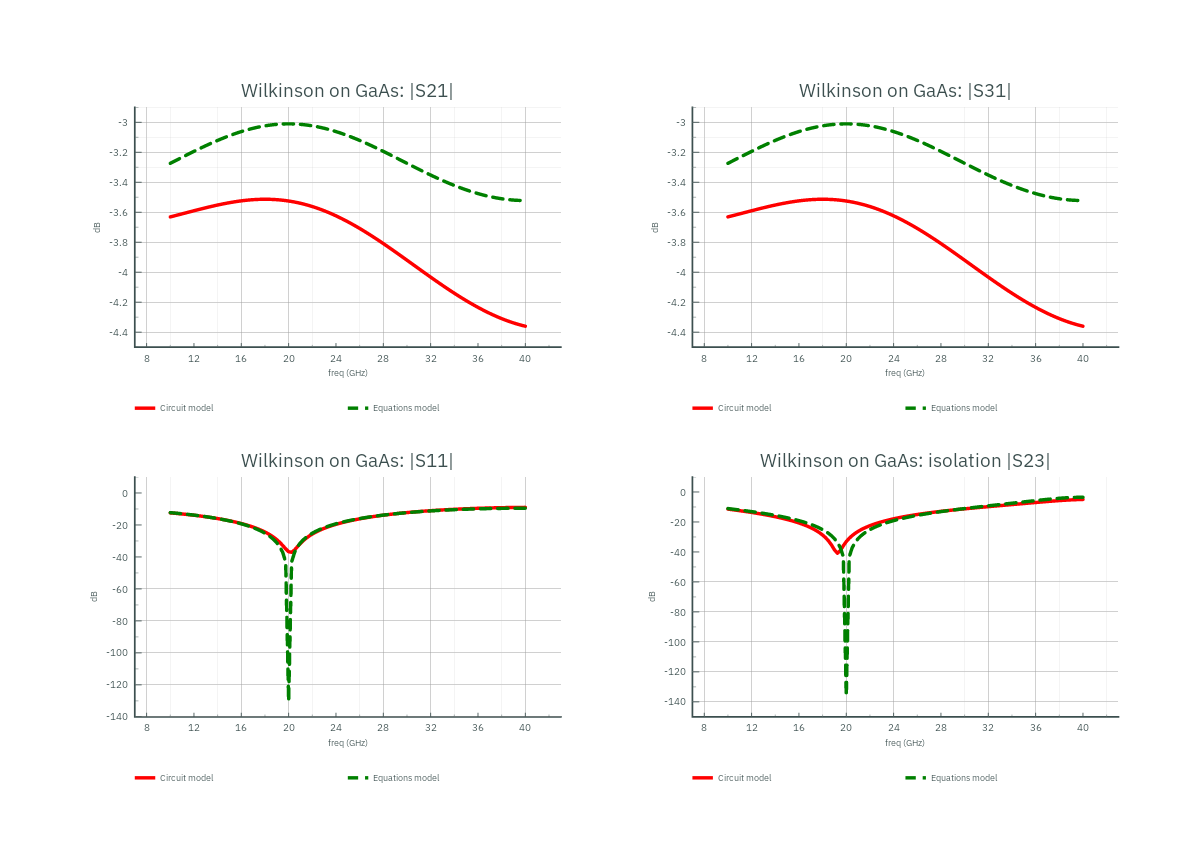
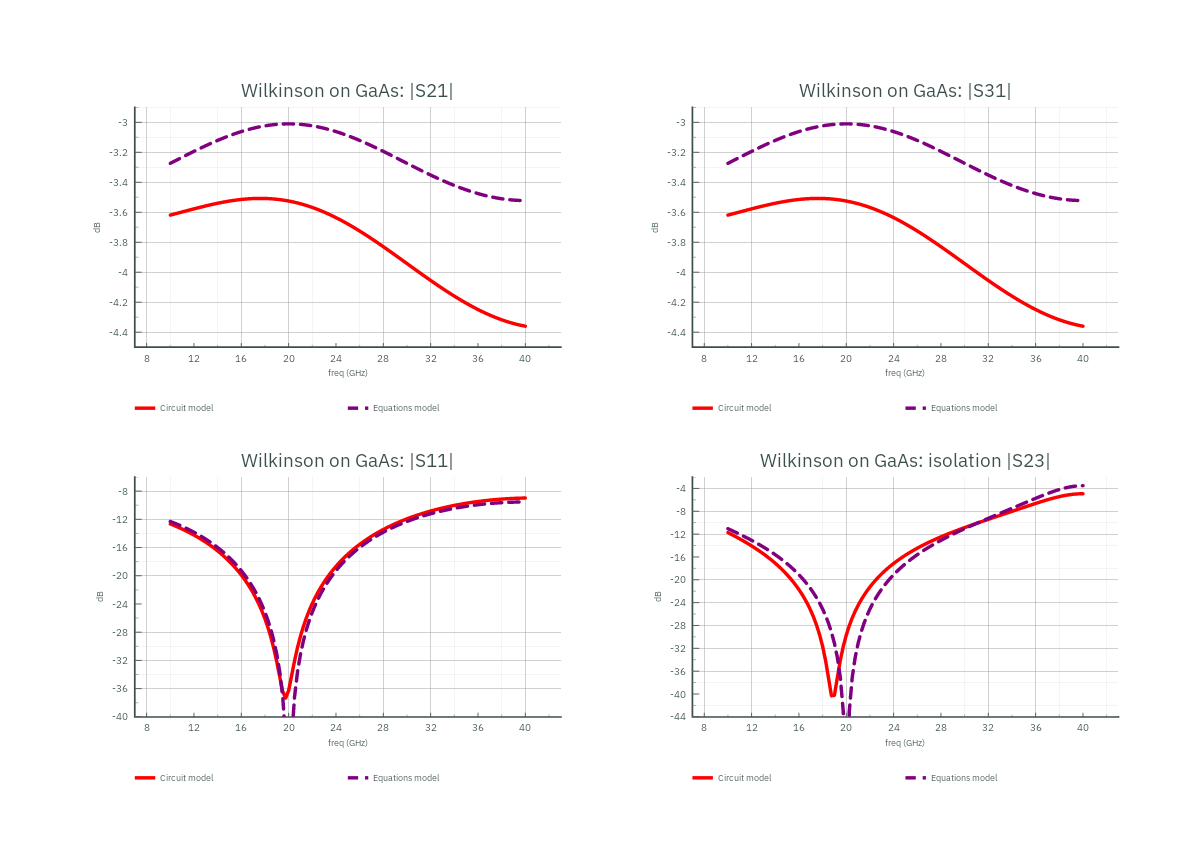
MMIC Wilkinson and RFIC Branch-Line: the examples page entries back, and the thin-film loss said
The examples page lost both workspaces' entries and the Dividers and Couplers abstract's newer text in
the merge with main; they are back, under Planar EM and Boards where examples.json now groups them,
and the abstract says every cell has an equations model and the tandem has 0 ohm jumpers. The RFIC
README says the 9 dB is the thin-film microstrip's conductor loss on 1.8 um of oxide at 60 GHz, not
a fault of the model. Both data displays draw the equations model as the board ones now do.

diff --git a/docs/user/src/examples/index.md b/docs/user/src/examples/index.md
@@ -176,9 +176,21 @@ A 50 to 100 Ω Klopfenstein taper, 15 mm long, solved two ways for one S11 plot.
 
 ### [Dividers and Couplers](dividers-and-couplers/index.html) {#ex-dividers-and-couplers}
 
-The RF dividers, hybrids, couplers and baluns as built-in parts, each stated by its specs and drawn from the same plan its circuit model simulates, on 20 mil RO4350B at 2.4 GHz. The Wilkinson divider (MWPD) takes Z0, F and the resistor's pin span, with the widths and lengths shown as a readout; `K` makes it an unequal split and `N` a two-section broadband divider, and a four-way tree is three of them. The branch-line (MBLC) and rat-race (MRRC) hybrids, the 10 dB coupled-line coupler (MCLC) and the coupled-line balun (MCBL) are built the same way, each laid out by Update Layout from Schematic. Every EM cell has a Planar MoM setup (the balun's is refused) and a 3D view with EMerge and Palace setups, and a test bench beside it: the cell's circuit plus one SnP block per solver, each reading the Touchstone file its own run writes, with a lumped part's component port closed by that part. No results ship. Run the setups, simulate the bench, and open the cell's data display: the circuit model is drawn as a line and each solver as markers at the eleven frequencies it solved. The README tables each part at 2.4 GHz and keeps the open points, such as the 3D solvers reading the coupler's coupling about 1 dB strong and microstrip's unequal mode speeds holding the balun's outputs about 170° apart.
+The RF dividers, hybrids, couplers and baluns as built-in parts, each stated by its specs and drawn from the same plan its circuit model simulates, on 20 mil RO4350B at 2.4 GHz. The Wilkinson divider (MWPD) takes Z0, F and the resistor's pin span, with the widths and lengths shown as a readout; `K` makes it an unequal split and `N` a two-section broadband divider, and a four-way tree is three of them. The branch-line (MBLC) and rat-race (MRRC) hybrids, the 10 dB coupled-line coupler (MCLC) and the coupled-line balun (MCBL) are built the same way, each laid out by Update Layout from Schematic. Every EM cell has a Planar MoM setup (the balun's is refused) and a 3D view with EMerge and Palace setups, and a test bench beside it: the cell's circuit plus one SnP block per solver, each reading the Touchstone file its own run writes, with a lumped part's component port closed by that part. No results ship. Run the setups, simulate the bench, and open the cell's data display: the circuit model is drawn as a line and each solver as markers at the eleven frequencies it solved. The Gysel (MGPD), Bagley (MBPD) and tee (MTPD) dividers, the Schiffman phase shifter (MSPS), a meandered delay line (MDLY), the compact rat-race, the three-section and tandem couplers, the lumped Wilkinson and a 6 dB resistive pad (MRPAD) follow, most of them solved on Planar MoM too, on a coarse mesh. The lumped parts' 0402s are placed by Place Site Parts, and the tandem's crossovers are 0 Ω 1206 jumpers. Every cell's bench also holds an equations model, the same topology on ideal TLIN and CLIN lines or ideal parts, drawn dashed in its data display, and the README gives the difference at 2.4 GHz. The README tables each part at 2.4 GHz and keeps the open points, such as the 3D solvers reading the coupler's coupling about 1 dB strong and microstrip's unequal mode speeds holding the balun's outputs about 170° apart.
 
-*Folder:* `Dividers and Couplers` · *Topics:* Wilkinson divider, power divider, MWPD, isolation resistor, unequal split, multi-section divider, broadband, four-way divider, branch-line hybrid, MBLC, rat-race hybrid, MRRC, quadrature hybrid, coupled-line coupler, MCLC, directivity, Marchand balun, MCBL, quarter-wave, microstrip, Update Layout from Schematic, LVS, Planar MoM, EMerge, Palace, RO4350B, test bench, SnP, Data Display, component ports
+*Folder:* `Dividers and Couplers` · *Topics:* Wilkinson divider, power divider, MWPD, isolation resistor, unequal split, multi-section divider, broadband, four-way divider, branch-line hybrid, MBLC, rat-race hybrid, MRRC, quadrature hybrid, coupled-line coupler, MCLC, directivity, Marchand balun, MCBL, Gysel divider, MGPD, Bagley polygon divider, MBPD, tee divider, MTPD, Schiffman phase shifter, MSPS, delay line, MDLY, meander, compact rat-race, multi-section coupler, tandem coupler, lumped Wilkinson, Place Site Parts, resistive pad, attenuator, MRPAD, equations model, TLIN, CLIN, quarter-wave, microstrip, Update Layout from Schematic, LVS, Planar MoM, EMerge, Palace, RO4350B, test bench, SnP, Data Display, component ports
+
+### [MMIC Wilkinson](mmic-wilkinson/index.html) {#ex-mmic-wilkinson}
+
+The Wilkinson divider of the Dividers and Couplers example on a die: an MWPD at 20 GHz on the shipped 100 µm GaAs stack, every line on Metal1, and a thin-film resistor across the ring's gap, whose pin span the divider's `Gap` is set to so Update Layout lays it straight across. LVS matches the layout to the schematic. The test bench sets the circuit model beside an equations model, ideal lines of the closed-form impedances and lengths and an ideal resistor, so the table gives what the gold lines lose at 20 GHz. No results ship.
+
+*Folder:* `MMIC Wilkinson` · *Topics:* Wilkinson divider, MWPD, MMIC, GaAs, thin-film resistor, TFR, Update Layout from Schematic, LVS, equations model, test bench, SnP, Data Display
+
+### [RFIC Branch-Line](rfic-branch-line/index.html) {#ex-rfic-branch-line}
+
+The branch-line hybrid of the Dividers and Couplers example on a silicon back-end: an MBLC at 60 GHz on the top metal of the shipped three-metal stack with Metal1 as its ground, a thin-film microstrip whose field stays in the oxide, out of the conducting silicon. The test bench sets the circuit model beside an equations model of ideal lines: the quadrature holds, and the thin-film microstrip's conductor loss on 1.8 µm of oxide at 60 GHz is about 9 dB, which is the line's physics and not a fault of the model. LVS finds no error. No results ship.
+
+*Folder:* `RFIC Branch-Line` · *Topics:* branch-line hybrid, MBLC, quadrature hybrid, RFIC, silicon, thin-film microstrip, ground reference, millimetre wave, 60 GHz, Update Layout from Schematic, LVS, equations model, test bench, SnP, Data Display
 
 ### [PCB Component Ports](pcb-component-ports/index.html) {#ex-pcb-component-ports}
 

diff --git a/examples/RFIC Branch-Line/README.md b/examples/RFIC Branch-Line/README.md
@@ -35,5 +35,6 @@ the Metal1 ground under the lines, and LVS finds no error.
 | \|S31\|, coupled | −3.01 dB | −14.4 dB |
 | ∠S21 − ∠S31 | 90.0° | 90.0° |
 
-The quadrature holds, but the 1.8 µm of oxide costs about 9 dB in the lines' conductor loss. Referenced to the backside
-instead, the lines would sit on the conducting silicon, whose loss their closed form leaves out.
+The quadrature holds. The 9 dB lost is the thin-film microstrip's conductor loss on 1.8 µm of oxide at 60 GHz, not a
+fault of the model. Referenced to the backside instead, the lines would sit on the conducting silicon, whose loss their
+closed form leaves out.
